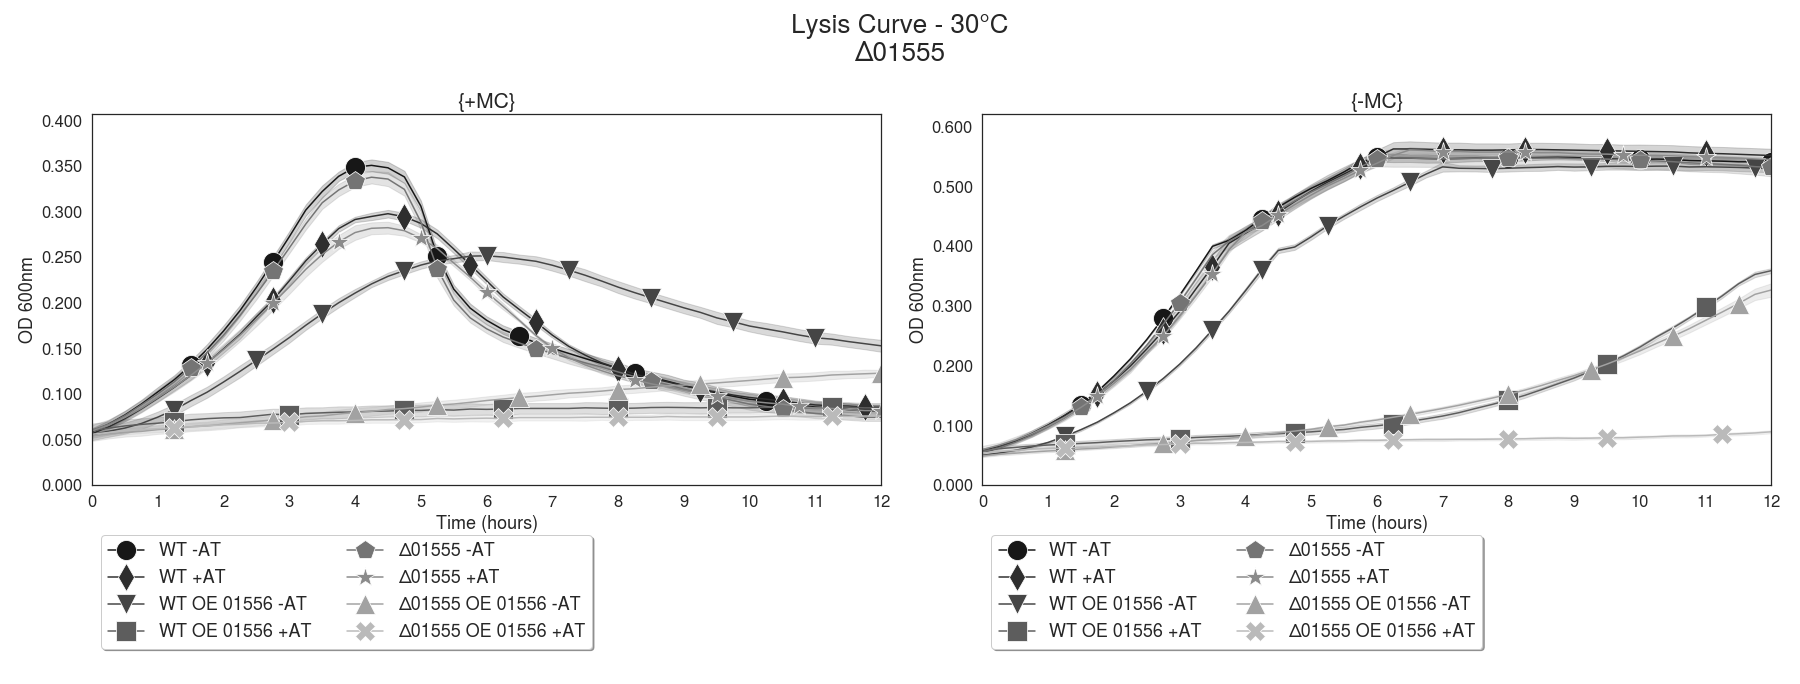
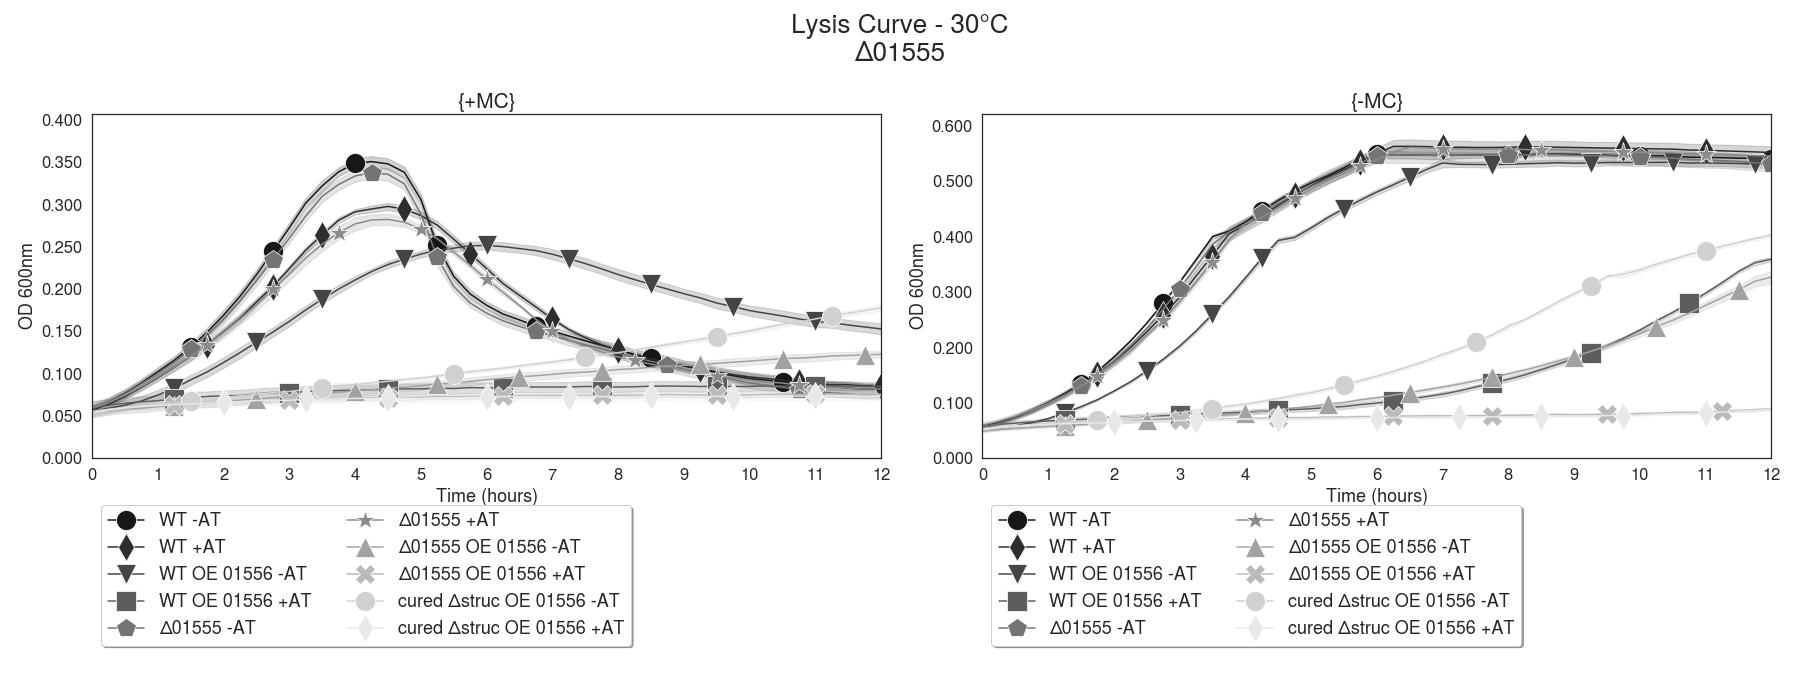
fixed `./OE56/2` graphs

diff --git a/Lysis Curve/OE 56/2/Lysis_Curve_30.py b/Lysis Curve/OE 56/2/Lysis_Curve_30.py
@@ -5,7 +5,7 @@ from analysis import analyse_file, gen_pair_graphs
 for rept in [1,2,3,4]:
     deg = 30
     # deg = 37
-    # rept = 1
+    # rept = 2
     time_in_oven = 12
     csv_filename = f'{deg}deg_{rept}_repeat'
     groups_filename = 'group1'
@@ -41,7 +41,7 @@ for rept in [1,2,3,4]:
 
     ## Δ01555 ##
     title = f'Lysis Curve - {deg}°C\nΔ01555'
-    cols = wt_cols + wt_oe56_cols + [ c for c in df.columns if 'd_01555' in c ]
+    cols = wt_cols + wt_oe56_cols + [ c for c in df.columns if 'd_01555' in c or 'd_struc OE' in c ]
     fig,axs = gen_pair_graphs(df, cols, title, xticks=range(time_in_oven+1))
     title = title.split('\n')
     figs[title[1]] = fig

diff --git a/Lysis Curve/OE 56/2/analysis.py b/Lysis Curve/OE 56/2/analysis.py
@@ -140,7 +140,7 @@ def gen_pair_graphs(df, cols, title, title_postfix=None, suptitle=None, legend_l
     sns.set_theme(**sns_theme_kwargs)
     sns.set_palette(**sns_palette_kwargs)
     
-    markers = ['o','d','v','s','p','*','^','X']
+    markers = ['o','d','v','s','p','*','^','X']*2
     colors = sns.color_palette()
     markevery_cases = [(0.1,0.1), (0.15,0.1), (0.125,0.15), (0.1,0.125)]
     # markevery_cases = [(0.1,0.1)]
